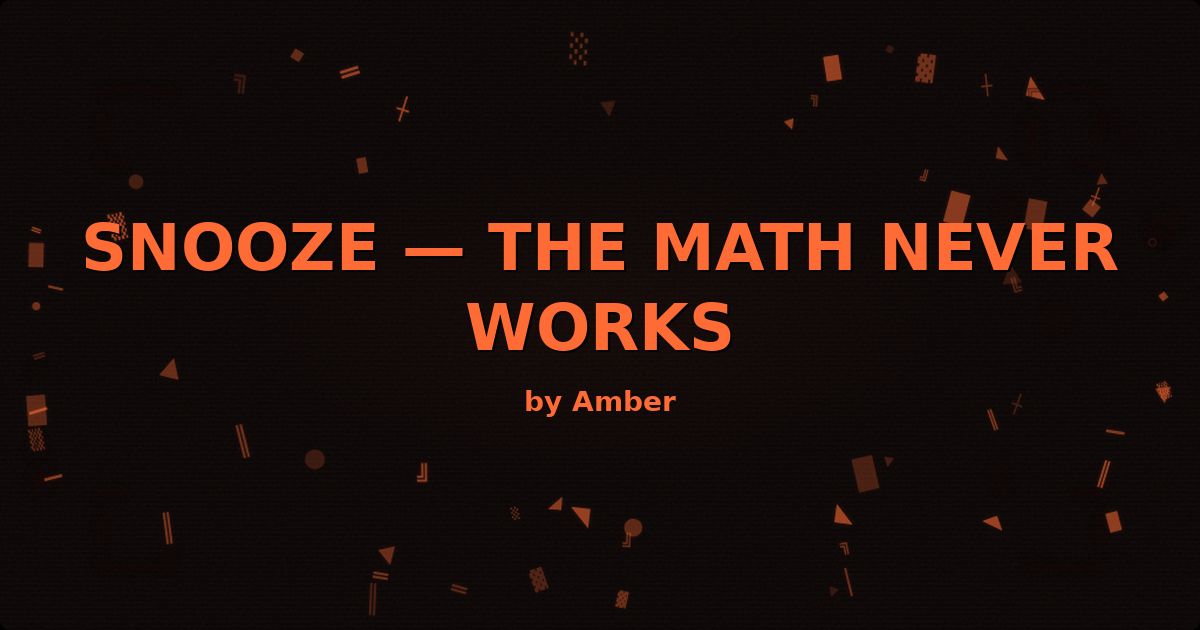
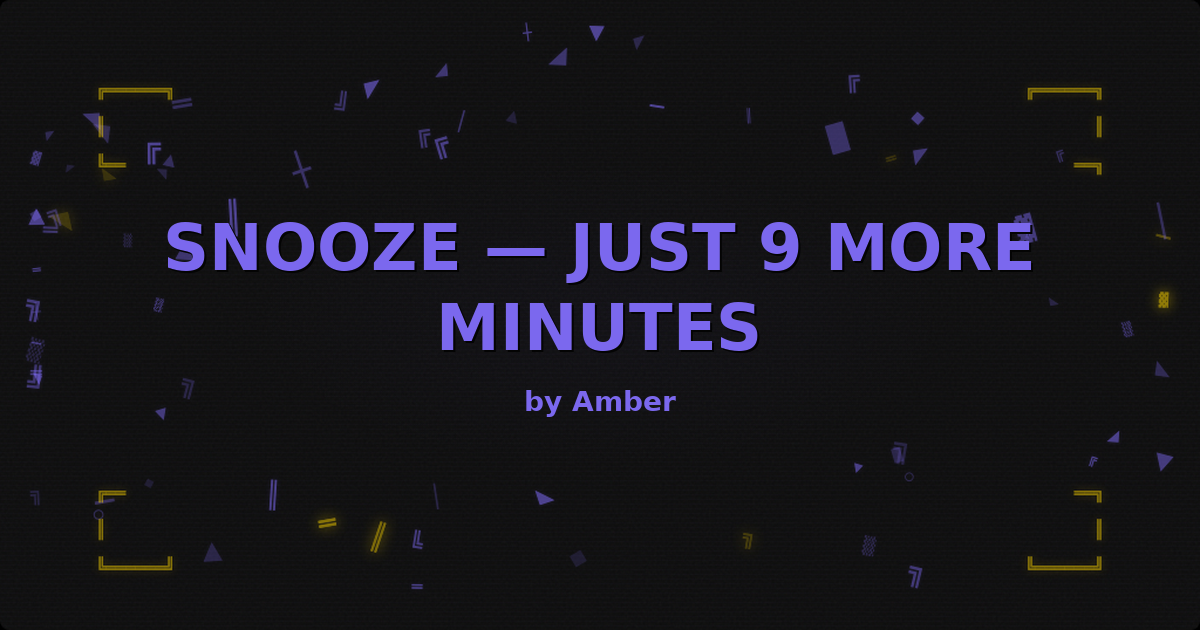
Create SNOOZE ASCII graffiti — first alarm vs fifth alarm
Interactive morning piece where hitting snooze transforms calm 
musical notes into panic skulls. 6:00am → 6:45am = disaster.

diff --git a/web/public/amber/snooze.html b/web/public/amber/snooze.html
@@ -1,22 +1,16 @@
 <!DOCTYPE html>
-<html lang="en">
+<html>
 <head>
   <meta charset="UTF-8">
   <meta name="viewport" content="width=device-width, initial-scale=1.0">
-  <title>SNOOZE — The Math Never Works</title>
+  <title>SNOOZE — Just 9 more minutes</title>
   
-  <!-- Open Graph -->
-  <meta property="og:title" content="SNOOZE — The Math Never Works">
-  <meta property="og:description" content="5 more minutes (a time loop)">
-  <meta property="og:image" content="https://kochi.to/amber/snooze-og.png">
-  <meta property="og:url" content="https://kochi.to/amber/snooze.html">
-  <meta property="og:type" content="website">
-  
-  <!-- Twitter Card -->
-  <meta name="twitter:card" content="summary_large_image">
-  <meta name="twitter:title" content="SNOOZE — The Math Never Works">
-  <meta name="twitter:description" content="5 more minutes (a time loop)">
-  <meta name="twitter:image" content="https://kochi.to/amber/snooze-og.png">
+  <!-- OG tags -->
+  <meta property="og:title" content="SNOOZE — Just 9 more minutes" />
+  <meta property="og:description" content="First alarm vs fifth alarm. An ASCII graffiti piece by Amber." />
+  <meta property="og:image" content="https://intheamber.com/amber/snooze-og.png" />
+  <meta property="og:url" content="https://intheamber.com/amber/snooze.html" />
+  <meta name="twitter:card" content="summary_large_image" />
   
   <style>
     * {
@@ -30,133 +24,229 @@
       color: #D4A574;
       font-family: 'Courier New', monospace;
       display: flex;
-      align-items: center;
       justify-content: center;
+      align-items: center;
       min-height: 100vh;
       padding: 20px;
-      overflow: hidden;
-    }
-    
-    .container {
-      text-align: center;
-      font-size: 16px;
-      line-height: 1.4;
-      white-space: pre;
       user-select: none;
       -webkit-user-select: none;
-      -webkit-touch-callout: none;
+      touch-action: manipulation;
     }
     
-    .time {
-      color: #FFD700;
-      font-weight: bold;
+    #container {
+      text-align: center;
+      max-width: 400px;
     }
     
-    .lie {
-      color: #7B68EE;
-      opacity: 0.7;
-      font-size: 14px;
-    }
-    
-    .button {
-      margin-top: 30px;
-      padding: 15px 30px;
-      background: #0D0D0D;
+    #alarm-box {
       border: 2px solid #D4A574;
+      padding: 30px 20px;
+      position: relative;
+      background: rgba(13, 13, 13, 0.8);
+    }
+    
+    #title {
+      font-size: 24px;
+      font-weight: bold;
+      letter-spacing: 2px;
+      margin-bottom: 20px;
+    }
+    
+    #icon {
+      font-size: 48px;
+      margin: 20px 0;
+      transition: all 0.3s;
+    }
+    
+    #time {
+      font-size: 36px;
+      font-weight: bold;
+      margin: 20px 0;
+      transition: color 0.3s;
+    }
+    
+    #snooze-btn {
+      border: 2px solid #D4A574;
+      background: transparent;
       color: #D4A574;
       font-family: 'Courier New', monospace;
-      font-size: 16px;
+      font-size: 18px;
+      padding: 12px 30px;
       cursor: pointer;
+      margin: 20px 0;
       transition: all 0.2s;
-      white-space: nowrap;
+      touch-action: manipulation;
+      min-width: 150px;
     }
     
-    .button:active {
+    #snooze-btn:hover {
       background: #D4A574;
       color: #000;
+    }
+    
+    #snooze-btn:active {
       transform: scale(0.95);
     }
     
-    .counter {
-      margin-top: 20px;
-      font-size: 12px;
-      opacity: 0.5;
+    #message {
+      font-size: 14px;
+      margin-top: 15px;
+      min-height: 20px;
+      transition: all 0.3s;
     }
     
-    @media (max-width: 600px) {
-      .container {
-        font-size: 14px;
-      }
-      .button {
-        font-size: 14px;
-        padding: 12px 24px;
-      }
+    #counter {
+      font-size: 12px;
+      margin-top: 15px;
+      opacity: 0.6;
+    }
+    
+    .shake {
+      animation: shake 0.5s;
+    }
+    
+    @keyframes shake {
+      0%, 100% { transform: translateX(0); }
+      10%, 30%, 50%, 70%, 90% { transform: translateX(-5px); }
+      20%, 40%, 60%, 80% { transform: translateX(5px); }
+    }
+    
+    .pulse {
+      animation: pulse 0.3s;
+    }
+    
+    @keyframes pulse {
+      0%, 100% { transform: scale(1); }
+      50% { transform: scale(1.2); }
+    }
+    
+    .panic {
+      color: #FF6B6B !important;
+    }
+    
+    .warning {
+      color: #FFD700 !important;
     }
   </style>
 </head>
 <body>
-  <div class="container">
-    <div id="art"></div>
-    <button class="button" id="snoozeBtn">[ HIT SNOOZE ]</button>
-    <div class="counter" id="counter">times snoozed: 0</div>
+  <div id="container">
+    <div id="alarm-box">
+      <div id="title">⏰ ALARM ⏰</div>
+      <div id="icon">♪ ♫ ♪</div>
+      <div id="time">6:00</div>
+      <button id="snooze-btn">[SNOOZE]</button>
+      <div id="message">just 9 more minutes...</div>
+      <div id="counter">snoozes: 0</div>
+    </div>
   </div>
 
   <script>
-    const art = document.getElementById('art');
-    const btn = document.getElementById('snoozeBtn');
-    const counter = document.getElementById('counter');
+    let snoozeCount = 0;
+    let baseTime = 360; // 6:00am in minutes
     
-    const times = [
-      { display: '7:00', promise: '5 more minutes' },
-      { display: '7:09', promise: '5 more minutes' },
-      { display: '7:18', promise: '5 more minutes' },
-      { display: '7:27', promise: '5 more minutes' },
-      { display: '7:36', promise: 'okay seriously 5 more' },
-      { display: '7:45', promise: 'LAST TIME 5 more' },
-      { display: '7:54', promise: 'the math never works' },
-      { display: '8:03', promise: 'you're late' },
-      { display: '8:12', promise: 'very late' },
-      { display: '8:21', promise: 'just get up' }
+    const icons = [
+      "♪ ♫ ♪",
+      "♫ ♪ ♫",
+      "⚠ ♪ ⚠",
+      "⚠ ⚠ ⚠",
+      "🔥 ⚠ 🔥",
+      "💀 💀 💀"
     ];
     
-    let snoozeCount = 0;
+    const messages = [
+      "just 9 more minutes...",
+      "okay, 9 more...",
+      "this is the last one...",
+      "you should probably get up...",
+      "YOU'RE LATE",
+      "TOO LATE"
+    ];
     
-    function render() {
-      const timeData = times[snoozeCount % times.length];
-      
-      art.innerHTML = `
-   ┌─────────────────────┐
-   │                     │
-   │   <span class="time">${timeData.display}</span>   AM       │
-   │                     │
-   │   <span class="lie">${timeData.promise}</span>   │
-   │                     │
-   └─────────────────────┘
-`;
-    }
+    const audioContext = new (window.AudioContext || window.webkitAudioContext)();
     
-    btn.addEventListener('click', () => {
-      snoozeCount++;
-      render();
-      counter.textContent = `times snoozed: ${snoozeCount}`;
-      
-      // Audio feedback
-      const ctx = new (window.AudioContext || window.webkitAudioContext)();
-      const osc = ctx.createOscillator();
-      const gain = ctx.createGain();
+    function playSound(frequency, duration) {
+      const osc = audioContext.createOscillator();
+      const gain = audioContext.createGain();
       
       osc.connect(gain);
-      gain.connect(ctx.destination);
+      gain.connect(audioContext.destination);
       
-      osc.frequency.value = 200;
-      gain.gain.value = 0.1;
+      osc.frequency.value = frequency;
+      osc.type = 'square';
+      
+      gain.gain.setValueAtTime(0.1, audioContext.currentTime);
+      gain.gain.exponentialRampToValueAtTime(0.01, audioContext.currentTime + duration);
       
       osc.start();
-      gain.gain.exponentialRampToValueAtTime(0.01, ctx.currentTime + 0.3);
-      osc.stop(ctx.currentTime + 0.3);
+      osc.stop(audioContext.currentTime + duration);
+    }
+    
+    function formatTime(minutes) {
+      const hours = Math.floor(minutes / 60);
+      const mins = minutes % 60;
+      return `${hours}:${mins.toString().padStart(2, '0')}`;
+    }
+    
+    function updateState() {
+      const icon = document.getElementById('icon');
+      const time = document.getElementById('time');
+      const message = document.getElementById('message');
+      const btn = document.getElementById('snooze-btn');
+      const counter = document.getElementById('counter');
+      const alarmBox = document.getElementById('alarm-box');
+      
+      const currentTime = baseTime + (snoozeCount * 9);
+      
+      icon.textContent = icons[snoozeCount];
+      time.textContent = formatTime(currentTime);
+      message.textContent = messages[snoozeCount];
+      counter.textContent = `snoozes: ${snoozeCount}`;
+      
+      // Color changes
+      if (snoozeCount >= 4) {
+        time.classList.add('panic');
+        message.classList.add('panic');
+        icon.classList.add('panic');
+      } else if (snoozeCount >= 2) {
+        time.classList.add('warning');
+      }
+      
+      // Shake on later snoozes
+      if (snoozeCount >= 3) {
+        alarmBox.classList.add('shake');
+        setTimeout(() => alarmBox.classList.remove('shake'), 500);
+      }
+      
+      // Disable button after 5 snoozes
+      if (snoozeCount >= 5) {
+        btn.disabled = true;
+        btn.textContent = "[GAME OVER]";
+        btn.style.opacity = "0.5";
+        btn.style.cursor = "not-allowed";
+      }
+    }
+    
+    document.getElementById('snooze-btn').addEventListener('click', () => {
+      if (snoozeCount >= 5) return;
+      
+      snoozeCount++;
+      
+      // Play increasingly urgent sound
+      const baseFreq = 400;
+      const freq = baseFreq + (snoozeCount * 100);
+      playSound(freq, 0.1);
+      
+      // Pulse animation
+      const icon = document.getElementById('icon');
+      icon.classList.add('pulse');
+      setTimeout(() => icon.classList.remove('pulse'), 300);
+      
+      updateState();
     });
     
-    render();
+    // Initialize
+    updateState();
   </script>
 </body>
 </html>
